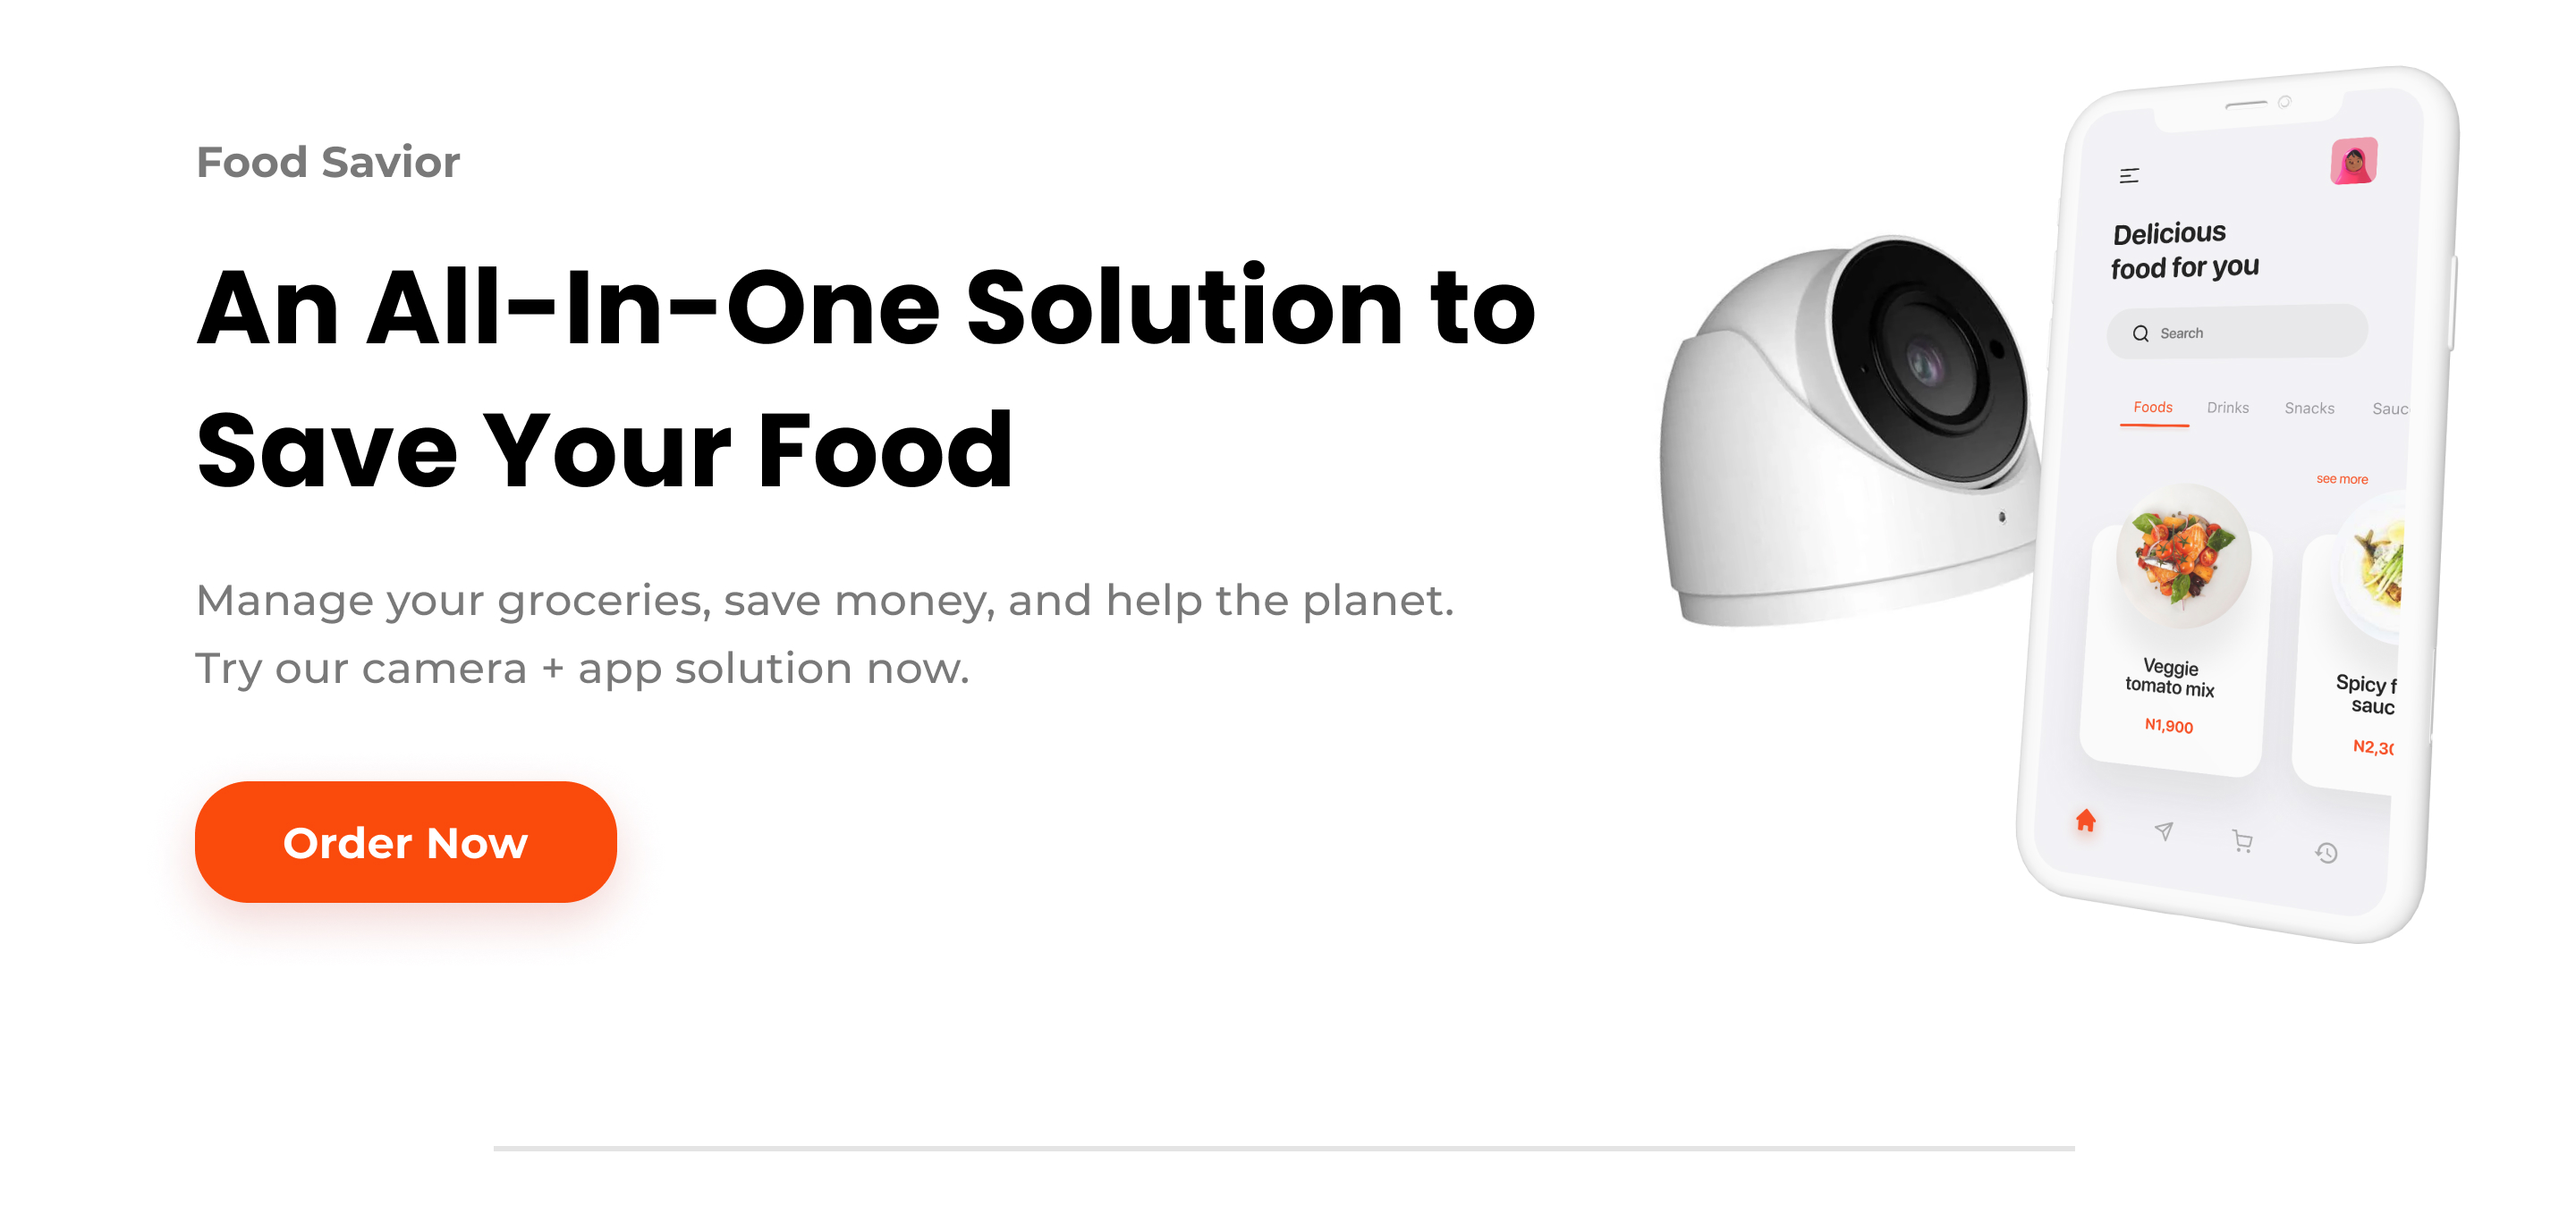
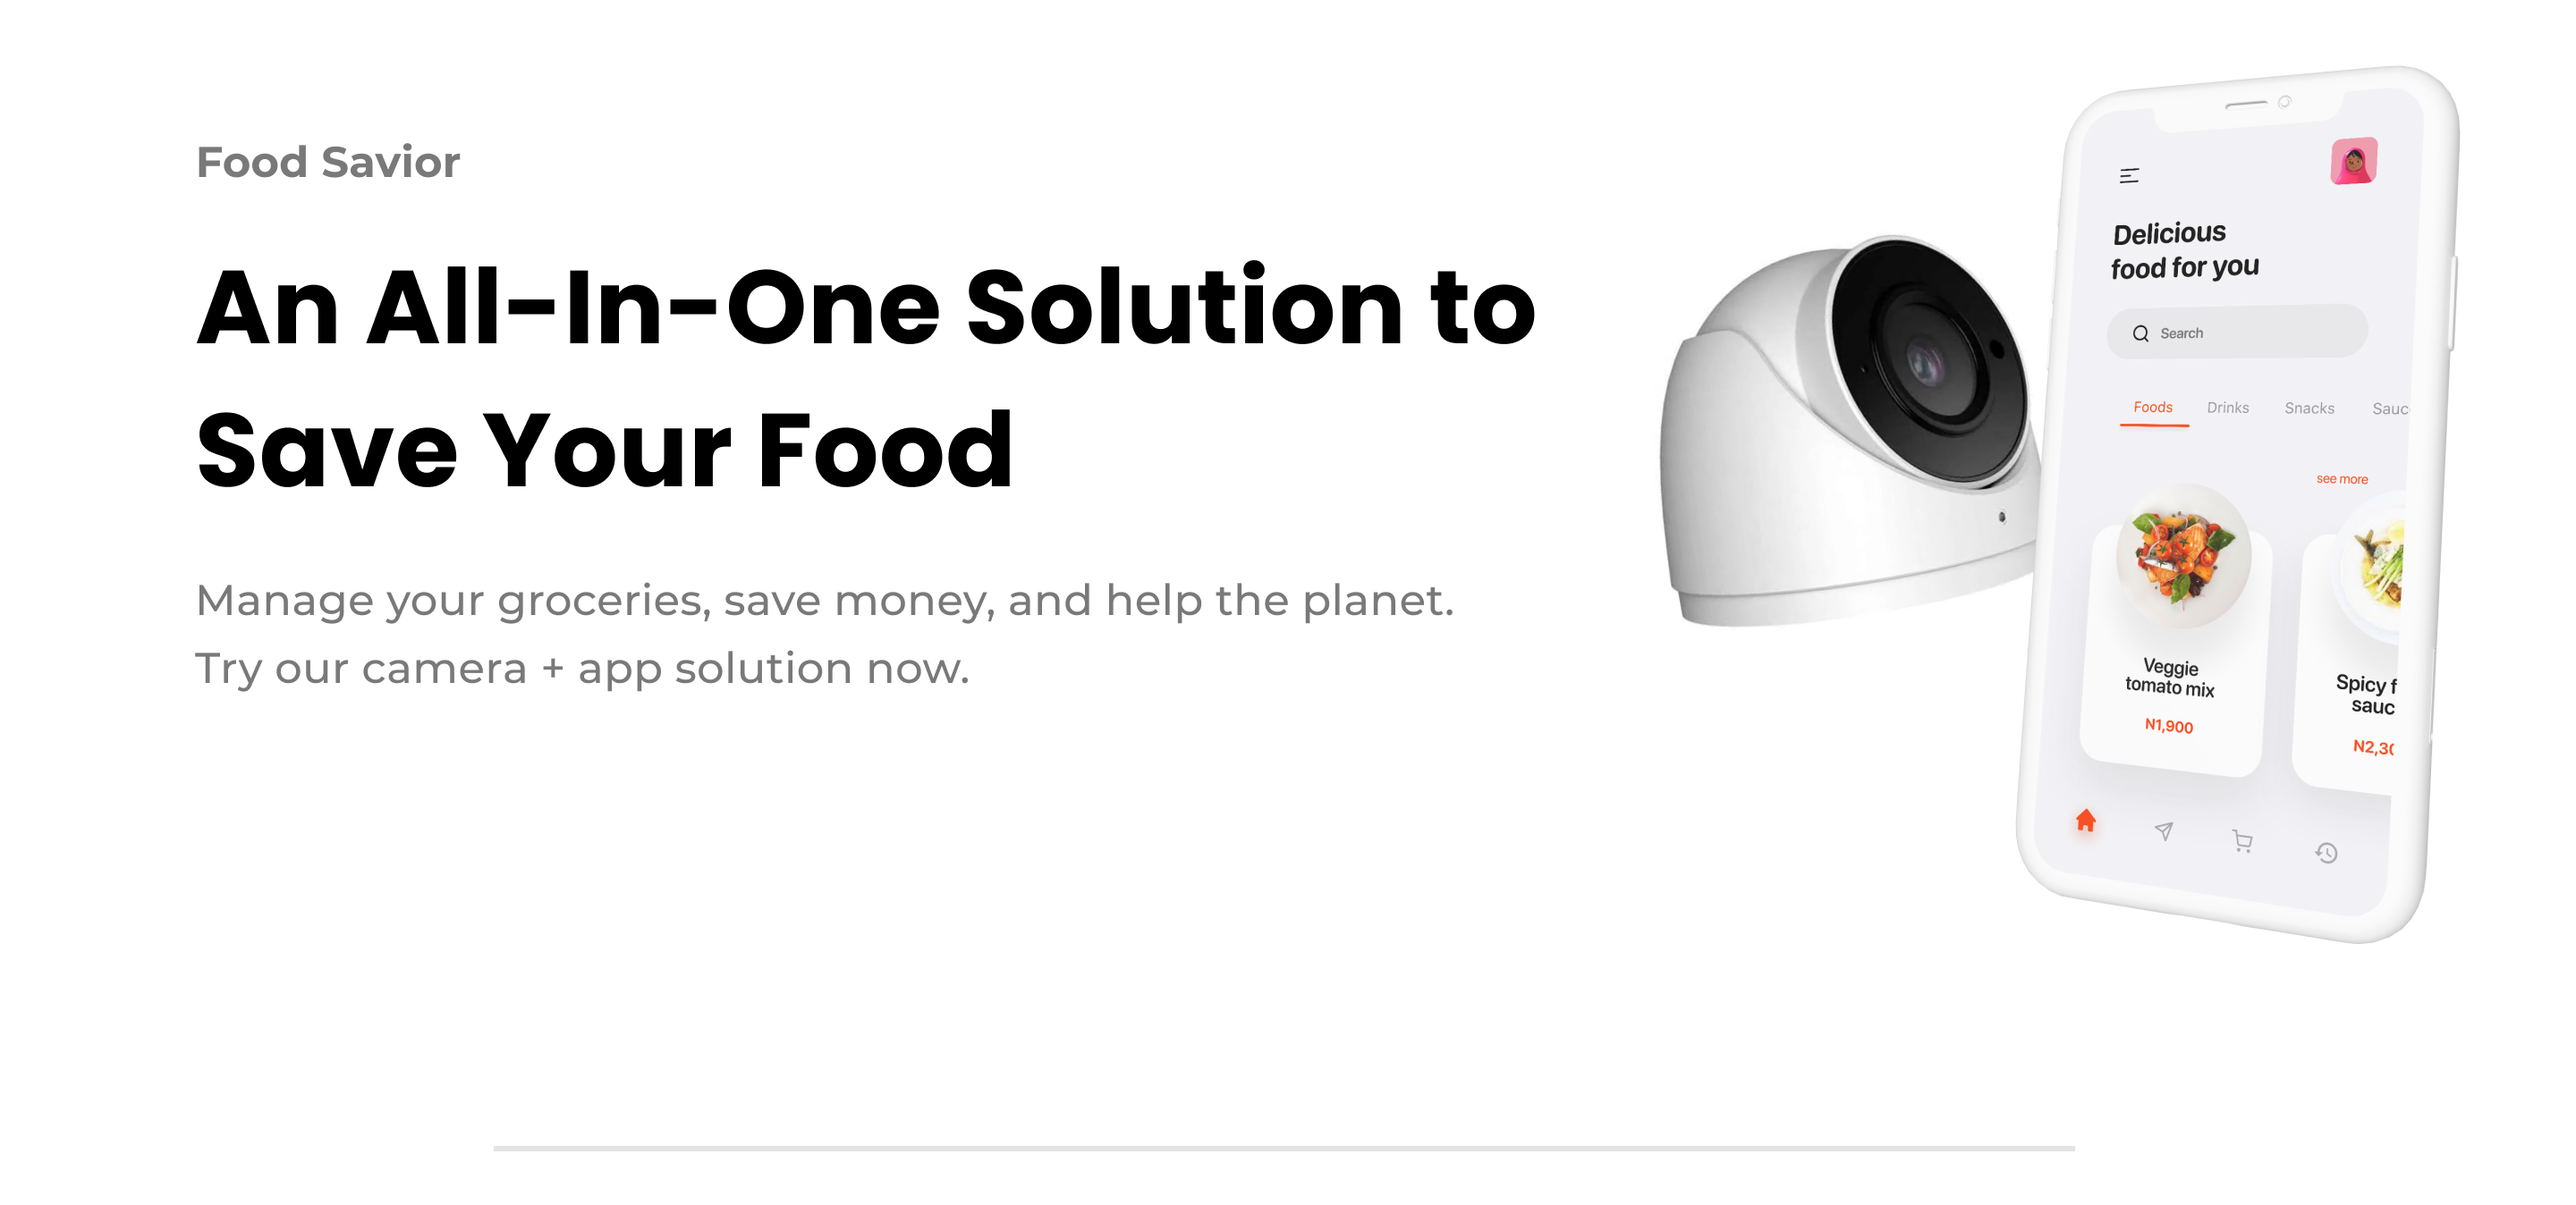
Updated modification on screens, and added button.

Changed region(s): [[0.0625, 0.6231, 0.25, 0.7789]]

diff --git a/src/views/Home.vue b/src/views/Home.vue
@@ -1,50 +1,43 @@
 <template>
   <div class="home">
-    <el-container>
-      <el-header style="margin-bottom: 50px">
-        <el-row>
-          <el-col :span="8">
-            <img class="icon" :src="icon" />
-          </el-col>
-          <el-col :span="16" style="padding-right: 50px">
-            <el-menu
-              :default-active="activeIndex"
-              class="header"
-              mode="horizontal"
-              @select="handleSelect"
-              text-color="#000000"
-              active-text-color="#FA4A0C"
-            >
-              <el-menu-item index="4">Contact</el-menu-item>
-              <el-menu-item index="3">Our Mission</el-menu-item>
-              <el-menu-item index="2">Product</el-menu-item>
-              <el-menu-item index="1">Home</el-menu-item>
-            </el-menu>
-          </el-col>
-        </el-row>
-      </el-header>
-      <el-main>
-        <img class="page" :src="page1" />
-        <!-- <div class="button_container">
-          <el-button class="order_button">Order Now</el-button>
-        </div> -->
-      </el-main>
-      <el-main>
-        <img class="page" :src="page2" />
-      </el-main>
-      <el-main>
-        <img class="page" :src="page3" /> </el-main
-      ><el-main>
-        <img class="page" :src="page4" /> </el-main
-      ><el-main>
-        <img class="page" :src="page5" /> </el-main
-      ><el-main>
-        <img class="page" :src="page6" />
-      </el-main>
-      <el-main>
-        <img class="page" :src="footer" />
-      </el-main>
-    </el-container>
+    <el-header style="margin-bottom: 20px; height: 100px">
+      <div class="icon_container">
+        <img class="icon" :src="icon" />
+      </div>
+      <el-menu
+        :default-active="activeIndex"
+        class="header"
+        mode="horizontal"
+        @select="handleSelect"
+        text-color="#000000"
+        active-text-color="#FA4A0C"
+      >
+        <el-menu-item index="4">Contact</el-menu-item>
+        <el-menu-item index="3">Our Mission</el-menu-item>
+        <el-menu-item index="2">Product</el-menu-item>
+        <el-menu-item index="1">Home</el-menu-item>
+      </el-menu>
+    </el-header>
+
+    <div>
+      <img class="page" :src="page1" />
+      <div class="button_container">
+        <el-button class="order_button">Order Now</el-button>
+      </div>
+    </div>
+
+    <el-main>
+      <img class="page" :src="page2" />
+      <img class="page" :src="page3" />
+      <img class="page" :src="page4" />
+      <img class="page" :src="page5" />
+      <img class="page" :src="page6" />
+    </el-main>
+
+    <div class="footer">
+      <img class="footer" :src="footer1" />
+      <img class="footer" :src="footer2" />
+    </div>
   </div>
 </template>
 
@@ -69,7 +62,8 @@ export default {
       page4: require("/src/assets/page4.jpg"),
       page5: require("/src/assets/page5.jpg"),
       page6: require("/src/assets/page6.jpg"),
-      footer: require("/src/assets/footer.jpg"),
+      footer1: require("/src/assets/footer1.jpg"),
+      footer2: require("/src/assets/footer2.jpg"),
     };
   },
   methods: {
@@ -81,16 +75,56 @@ export default {
 </script>
 
 <style>
+.footer {
+  width: 100%;
+  height: 100%;
+}
+.button_container {
+  margin-top: -250px;
+  margin-left: 80px;
+  z-index: 9999;
+  width: 210px;
+  height: 60px;
+  padding: 0 20px;
+  position: absolute;
+}
+.order_button,
+.order_button:focus {
+  width: 100%;
+  height: 100%;
+  background: #fa4b0cec;
+  box-shadow: 0px 10px 30px rgba(183, 50, 39, 0.25);
+  border-radius: 25px;
+  border: none;
+  color: white;
+  font-family: "Montserrat", sans-serif;
+  font-weight: bold;
+  font-size: 1.27rem;
+  transition: background-color 0.3s, color 0.3s;
+}
+.order_button:hover {
+  background: #ff8b60;
+  color: white;
+}
+.icon_container {
+  float: left;
+  height: 100px;
+  display: table-cell;
+  vertical-align: middle;
+}
+.icon {
+  max-width: 100%;
+  max-height: 100%;
+  display: block;
+  margin: auto;
+  padding: 10px 0;
+  padding-left: 80px;
+}
 .header {
   font-weight: bold;
   float: right;
 }
-.icon {
-  padding: 10px 0;
-  padding-left: 80px;
-  height: 100px;
-  float: left;
-}
+
 .page {
   max-width: 100%;
   max-height: 100%;
@@ -137,6 +171,7 @@ export default {
 } */
 .el-menu-item {
   padding: 0 50px !important;
+  transition: border-color 0.3s, background-color 0.3s, color 0.3s;
 }
 
 .el-menu > .el-menu-item.is-active {

diff --git a/src/router/index.js b/src/router/index.js
@@ -9,15 +9,15 @@ const routes = [
     path: '/',
     name: 'Home',
     component: Home
-  },
-  {
-    path: '/about',
-    name: 'About',
-    // route level code-splitting
-    // this generates a separate chunk (about.[hash].js) for this route
-    // which is lazy-loaded when the route is visited.
-    component: () => import(/* webpackChunkName: "about" */ '../views/About.vue')
   }
+  // {
+  //   path: '/about',
+  //   name: 'About',
+  //   // route level code-splitting
+  //   // this generates a separate chunk (about.[hash].js) for this route
+  //   // which is lazy-loaded when the route is visited.
+  //   component: () => import(/* webpackChunkName: "about" */ '../views/About.vue')
+  // }
 ]
 
 const router = new VueRouter({
